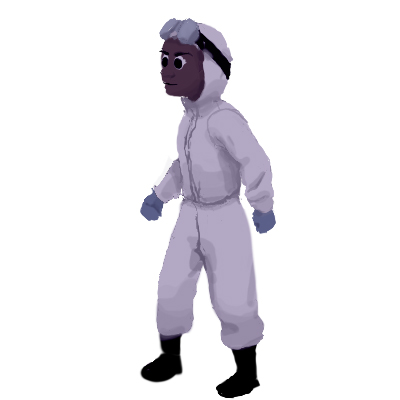
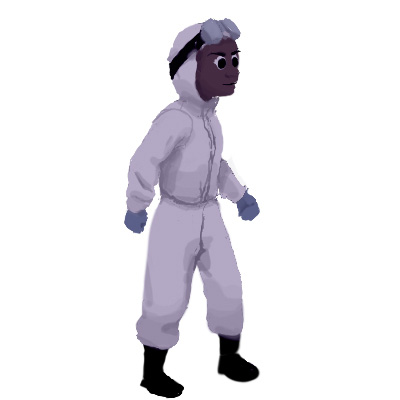
Add depth in alpha channel

Changed region(s): [[0.3, 0.03, 0.69, 1.0]]

diff --git a/projects/tpv2/tests/lightingtest.html b/projects/tpv2/tests/lightingtest.html
@@ -9,65 +9,57 @@
 
   <body scroll="no">
 
-    <div style="position: absolute; left:0; top: 0;"><canvas width=400 height=400 id="base" style="position: absolute; left:0; top: 0;"></div>
+    <div style="position: absolute; left:0; top: 0;"><canvas width=400 height=400 id="base" style="position: absolute; left:0; top: 0; z-index: -1"></div>
 
-<!--     <canvas width=400 height=400 id="lights" style="position: absolute; left:0; top: 0;"> -->
+  <!--   <div id = "controller" style="width: 100px; height: 100px; border: 2px solid black; position: absolute; left: 0; top: 0; z-index: 2"> -->
 
-    <script src = "light.js"></script>
-    <script src = "../systems/graphics/normalmask-engine.js"></script>
+    <script src = "../helpers/clamp.js"></script>
+    <script src = "../libraries/vector3d.js"></script>
+    <script src = "../systems/graphics/dynamic-lighting/normalmap-engine.js"></script>
 
     <script>
-    normalmap('base', '../assets/heronight.png', '../assets/heroheightmap_NRM.png', 10, 1);
+
+      var controller = document.getElementById('controller');
+
+      var canvas = document.getElementById('base');
+      canvas.width = 400;
+      canvas.height = 400;
+      var ctx = canvas.getContext('2d');
+
+      var baseImage = new Image(400,400);
+      baseImage.onload = function(){
+        ctx.drawImage(baseImage, 0, 0, 400, 400,
+          0, 0 ,400, 400);
+      };
+      baseImage.src = '../assets/heronight.png';
+
+      var normalmapImg = new Image(400,400);
+
+      normalmapImg.onload = function(){
+        var info = getNormalsFromImg(normalmapImg);
+        var normals = info[0];
+        var depth = info[1];
+
+        var lightColor = new Vec3D({
+          x: 255,
+          y: 240,
+          z: 200
+        })
+
+        base.addEventListener('mousemove', function(e){
+          ctx.drawImage(baseImage,0,0);
+          var lightPosition = new Vec3D({
+            // transpose so 0 in in center, not upper-left corner
+            x: e.clientX,
+            y: e.clientY,
+            z: 100
+          });
+          normalMap(canvas, ctx, normals, depth, lightPosition, lightColor);
+        });
+      };
+
+      normalmapImg.src = '../assets/normalheightmap.png';
     </script>
-
-    // <script>
-    //   var normalsData;
-
-
-    //   var baseCanvas = document.getElementById('base');
-    //   baseCanvas.width = 400;
-    //   baseCanvas.height = 400;
-    //   var base = baseCanvas.getContext('2d');
-
-    //   var lightingCanvas = document.getElementById('lights');
-    //   lightingCanvas.width = 400;
-    //   lightingCanvas.height = 400;
-    //   var lighting = lightingCanvas.getContext('2d');
-    //   var lightBuffer = lighting.getImageData(0, 0, 400, 400);
-
-
-    //   var normalsCanvas = document.createElement('canvas');
-    //   normalsCanvas.width = 400;
-    //   normalsCanvas.height = 400;
-    //   var normals = normalsCanvas.getContext('2d');
-
-    //   var baseImage = new Image(400,400);
-    //   baseImage.onload = function(){
-    //     base.drawImage(baseImage, 0, 0, 400, 400,
-    //       0, 0 ,400, 400);
-    //   };
-    //   baseImage.src = 'buddah.jpg';
-
-    //   var normalmapImg = new Image(400,400);
-
-    //   normalmapImg.onload = function(){
-    //     normals.drawImage(normalmapImg, 0, 0, 400, 400,
-    //       0, 0 ,400, 400);
-    //     normalsData = normals.getImageData(0,0,400,400);
-    //     lightingCanvas.addEventListener('mousemove', function(e){
-    //       lighting.clearRect(0, 0, 400, 400);
-    //       dynamicLighting({
-    //         ctx: lighting,
-    //         normalsData: normalsData,
-    //         lightx: e.clientX + 100,
-    //         lighty: e.clientY + 100,
-    //         lightz: 10
-    //       });
-    //     });
-    //   };
-
-    //   normalmapImg.src = 'buddah_normals.jpg';
-    // </script>
 
 
   </body>

diff --git a/projects/tpv2/systems/graphics/dynamic-lighting/normalmap-engine.js b/projects/tpv2/systems/graphics/dynamic-lighting/normalmap-engine.js
@@ -1,0 +1,85 @@
+function getImageData(img){
+  var tempCanvas = document.createElement('canvas');
+  tempCanvas.width = img.width;
+  tempCanvas.height = img.height;
+  var tempCtx = tempCanvas.getContext('2d');
+  tempCtx.drawImage(img, 0, 0);;
+  return tempCtx.getImageData(0, 0, img.width, img.height).data;
+}
+
+function getNormalsFromImg(img){
+  var normalsData = getImageData(img);
+  var normals = [];
+  var depthData = [];
+  for (var i = 0; i < normalsData.length; i += 4){
+    var normal = new Vec3D({
+      x: normalsData[i],
+      y: normalsData[i+1],
+      z: normalsData[i+2]
+    });
+    normals.push(normal.unit());
+    depthData.push(400 / normalsData[i+4]);
+  }
+  return [normals, depthData];
+}
+
+// applies lighting to a pixel and returns the new color
+function lightPixel(baseColor, lightDirection, normal, lightColor){
+  var dot = Vec3D.dot(lightDirection.unit(), normal);
+  var intensity = dot;
+  var color = Vec3D.interpolate(baseColor, lightColor, threshold(intensity, .6, 0, .85));
+  return color;
+}
+
+function normalMap(canvas, ctx, normals, depth, lightPosition, lightColor){
+
+  var texture = ctx.getImageData(0, 0, canvas.width, canvas.height);
+  var textureData = texture.data;
+
+  var lightDirection = new Vec3D({
+    x: lightPosition.x - x,
+    y: lightPosition.y - y,
+    z: lightPosition.z
+  });
+
+  var normal = new Vec3D({
+    x: 0,
+    y: 0,
+    z: 0
+  });
+
+  var ni = 0;
+  var ti = 0;
+
+  for (var x = 0; x < canvas.height; x++){
+    for (var y = 0; y < canvas.width; y++){
+
+      // calc light direction
+      lightDirection.x = lightPosition.x - x;
+      lightDirection.y = lightPosition.y - y;
+      lightDirection.z = lightPosition.z - depth[ni];
+
+      // get normal
+      var normal = normals[ni];
+
+      // get texture pixel
+      var texturePixel = new Vec3D({
+        x: textureData[ti],
+        y: textureData[ti+1],
+        z: textureData[ti+2]
+      });
+
+      var litPixel = lightPixel(texturePixel, lightDirection, normal, lightColor);
+
+      textureData[ti] = litPixel.x;
+      textureData[ti+1] = litPixel.y;
+      textureData[ti+2] = litPixel.z;
+
+      ni ++;
+      ti += 4;
+    }
+  }
+
+  ctx.putImageData(texture, 0, 0);
+
+}

diff --git a/projects/tpv2/spritedemo.html b/projects/tpv2/spritedemo.html
@@ -44,7 +44,7 @@
       </div>
 
     </div>
-
+    <script src = "helpers/clamp.js"></script>
     <script src = "libraries/vector.js"></script>
     <script src = "libraries/vector3d.js"></script>
     <script src = "libraries/vendor/bezierjs-gh-pages/bezier.js"></script>
@@ -63,7 +63,7 @@
     <script src = "systems/terrain/terrain.js"></script>
     <script src = "systems/viewport/viewport.js"></script>
     <script src = "systems/viewport/viewport.js"></script>
-    <script src = "systems/graphics/normalmask-engine.js"></script>
+    <script src = "systems/graphics/dynamic-lighting/normalmap-engine.js"></script>
 
     <script src = "classes/game-entity.js"></script>
     <script src = "classes/actor.js"></script>
@@ -115,6 +115,24 @@
 
       var collisionEngine = new CollisionEngine();
 
+      var light = new Light({
+        position: new Vec3D({
+          x: 200,
+          y: 500,
+          z: 10
+        }),
+        color: {
+          r: 255,
+          g: 255,
+          b: 200
+        },
+        falloff: 300
+      });
+
+      var normalMapEngine = new NormalMapEngine({
+        lights: [light]
+      });
+
       var hero = new Player(),
           twin = new Actor(),
           fireball = new Fireball(),
@@ -122,7 +140,7 @@
 
       scene.follow(hero);
 
-      var entities = [hero,twin,fireball,fireball2,scene,spriteEngine];
+      var entities = [hero,twin,scene,spriteEngine];
 
       hero.x = 360;
       hero.y = 600;

diff --git a/projects/tpv2/states.js b/projects/tpv2/states.js
@@ -16,11 +16,11 @@ NormalState.prototype.update = function(timestamp){
   // Check for walls and obstacles AFTER all updates are made to impulse and inertia
   this.subject.impulseHandler.update(); // apply impulse to acceleration
   this.subject.inertiaHandler.update(); // gradual acceleration falloff
-  // groundIsWalkableComponent(this.subject); // walls stop you or nudge you along at a diagonal
+  groundIsWalkableComponent(this.subject); // walls stop you or nudge you along at a diagonal
   this.subject.collisionHandler.update(); // you react to obstacles
   moveComponent(this.subject); // finally apply all movement calculations to position
   this.subject.spriteHandler.update(timestamp); // update sprite
-  dynamicLighting(this.subject);
+  // dynamicLighting(this.subject);
 };
 
 

diff --git a/projects/tpv2/initializer.js b/projects/tpv2/initializer.js
@@ -15,7 +15,7 @@ var imagesToLoad = [
   ["background", "assets/lavabg5big.jpg", 2048, 1536],
   ["backgroundfront", "assets/lavabg-front.png", 2048, 1700],
   ["backgroundback", "assets/lavabg-back.jpg", 2048, 1700],
-  ["heroStandingLeft", "assets/testball.png", 400, 400],
+  ["heroStandingLeft", "assets/hero_standing_left.png", 400, 400],
   ["heroStandingRight", "assets/hero_standing_right.png", 400, 400],
   ["heroRunLeft", "assets/hero_run_left.png", 1600, 400],
   ["heroRunRight", "assets/hero_run_right.png", 1600, 400],

diff --git a/projects/tpv2/libraries/vector3d.js b/projects/tpv2/libraries/vector3d.js
@@ -61,7 +61,7 @@ Vec3D.prototype.divideInPlace = function(s){
   this.z = (this.z / s);
 }
 
-Vec3D.prototype.length = function(s) {
+Vec3D.prototype.length = function() {
   return Math.sqrt(this.x * this.x + this.y * this.y + this.z * this.z);
 }
 
@@ -73,7 +73,7 @@ Vec3D.prototype.unit = function(s) {
   return this.divide(this.length());
 }
 
-Vec3D.prototype.normalizeInPlace = function(){
+Vec3D.prototype.normalize = function(){
   this.divideInPlace(this.length());
 }
 

diff --git a/projects/tpv2/classes/actor.js b/projects/tpv2/classes/actor.js
@@ -163,6 +163,12 @@ function Actor(className){ // < GameEntity
     "E": [280,390],
     "NE": [280,345]
   };
+
+  this.lightingHandler = new NormalMapComponent({
+    owner: this,
+    normalMapFile: '../assets/smoothedmap.jpg',
+    engine: normalMapEngine
+  });
 };
 
 //* METHODS =================

diff --git a/projects/tpv2/helpers/clamp.js b/projects/tpv2/helpers/clamp.js
@@ -1,0 +1,10 @@
+function clamp(x, min, max){
+  if (x < min) {return min;}
+  if (x > max) {return max;}
+  return x;
+}
+
+function threshold(x, threshold, min, max){
+  if (x < threshold) return min;
+  return max;
+}

diff --git a/projects/tpv2/systems/graphics/dynamic-lighting/normalmap-component.js b/projects/tpv2/systems/graphics/dynamic-lighting/normalmap-component.js
@@ -1,0 +1,4 @@
+function normalMapComponent(args){
+  this.
+
+}
